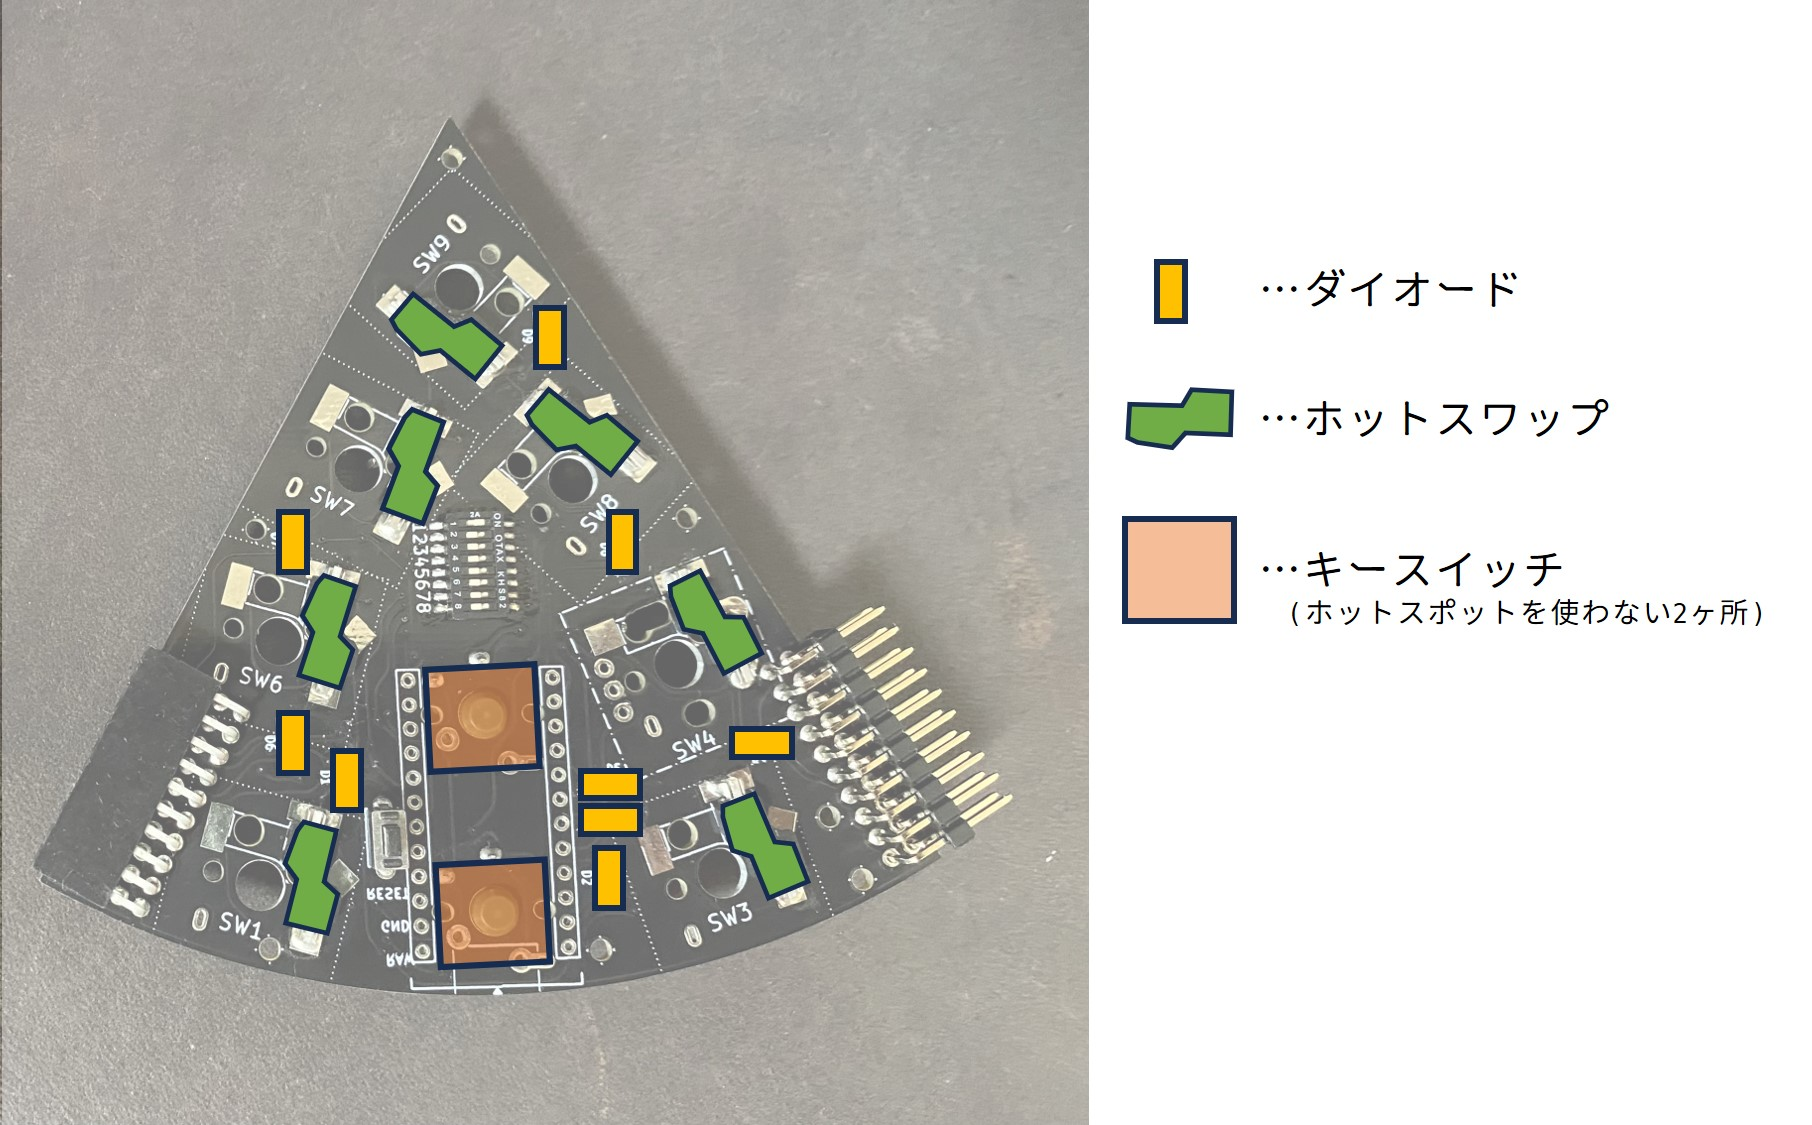
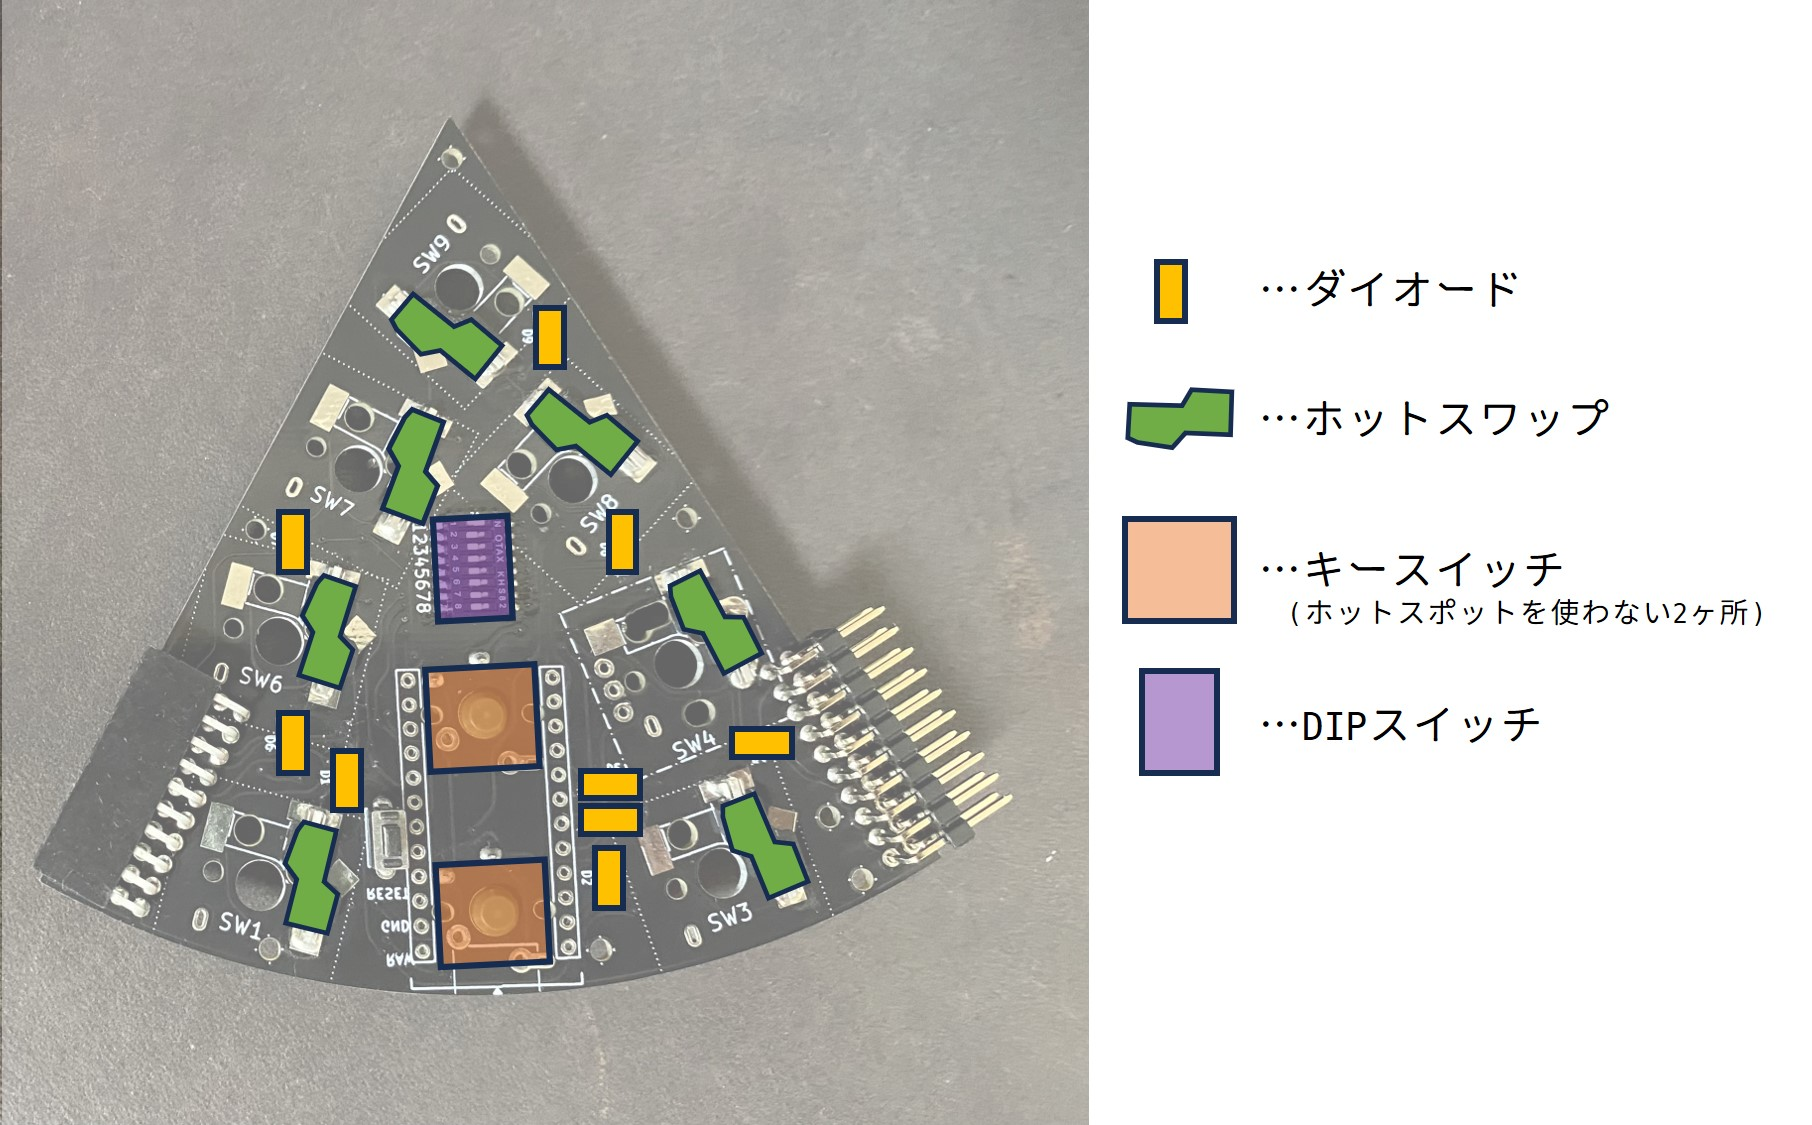
buld guid image

Changed region(s): [[0.2163, 0.4356, 0.3091, 0.56], [0.6181, 0.5911, 0.6799, 0.7156], [0.7108, 0.6222, 0.8653, 0.6533]]

diff --git a/build_guide/build_guide.md b/build_guide/build_guide.md
@@ -3,18 +3,37 @@
 ## キット内容
 ![ ](https://github.com/ataruno/A_PIECE_OF_KEYBOARD/blob/main/build_guide/build_guide_image/01_%E3%82%AD%E3%83%83%E3%83%88%E5%86%85%E5%AE%B9_%E3%82%AD%E3%83%A3%E3%83%97%E3%82%B7%E3%83%A7%E3%83%B3%E3%81%82%E3%82%8A.jpg)
 
-![ ](https://github.com/ataruno/A_PIECE_OF_KEYBOARD/blob/main/build_guide/build_guide_image/02_promicro1.jpg)
-![ ](https://github.com/ataruno/A_PIECE_OF_KEYBOARD/blob/main/build_guide/build_guide_image/02_promicro2.jpg)
+![ ](https://github.com/ataruno/A_PIECE_OF_KEYBOARD/blob/main/build_guide/build_guide_image/02_promicro.jpg)
 
-## はんだ
+## はんだ付け
+### 裏面(部品無し→はんだ付け後)
+
 ![ ](https://github.com/ataruno/A_PIECE_OF_KEYBOARD/blob/main/build_guide/build_guide_image/11_%E5%9F%BA%E6%9D%BF_%E8%A3%8F.jpg)
+
+裏面からのはんだ付けです。
 ![ ](https://github.com/ataruno/A_PIECE_OF_KEYBOARD/blob/main/build_guide/build_guide_image/12_%E3%81%AF%E3%82%93%E3%81%A0%E4%BB%98%E3%81%91%E7%AE%87%E6%89%80_%E8%A3%8F.jpg)
+
+#### ダイオード
+基板の矢印の方向に、ダイオードの横線を合わせてください。
 ![ ](https://github.com/ataruno/A_PIECE_OF_KEYBOARD/blob/main/build_guide/build_guide_image/13_%E3%83%80%E3%82%A4%E3%82%AA%E3%83%BC%E3%83%89%E6%96%B9%E5%90%91_%E3%82%AD%E3%83%A3%E3%83%97%E3%82%B7%E3%83%A7%E3%83%B3.jpg)
-![ ](https://github.com/ataruno/A_PIECE_OF_KEYBOARD/blob/main/build_guide/build_guide_image/14_%E5%9F%BA%E6%9D%BF_%E8%A1%A8.jpg)
-![ ](https://github.com/ataruno/A_PIECE_OF_KEYBOARD/blob/main/build_guide/build_guide_image/15_%E3%81%AF%E3%82%93%E3%81%A0%E4%BB%98%E3%81%91%E7%AE%87%E6%89%80_%E8%A1%A8.jpg)
+
+#### DIPスイッチ
 ![ ](https://github.com/ataruno/A_PIECE_OF_KEYBOARD/blob/main/build_guide/build_guide_image/16_DIP%E3%82%B9%E3%82%A4%E3%83%83%E3%83%81.jpg)
-![ ](https://github.com/ataruno/A_PIECE_OF_KEYBOARD/blob/main/build_guide/build_guide_image/17_%E3%81%AF%E3%82%93%E3%81%A0%E4%BB%98%E3%81%91%E5%BE%8C1.jpg)
+
+#### キースイッチ
+promicroと表裏で重なる部分はホットスワップでなくはんだ付けです。
 ![ ](https://github.com/ataruno/A_PIECE_OF_KEYBOARD/blob/main/build_guide/build_guide_image/18_%E3%81%AF%E3%82%93%E3%81%A0%E4%BB%98%E3%81%91%E5%BE%8C2.jpg)
+
+### 表面(部品無し→はんだ付け後)
+![ ](https://github.com/ataruno/A_PIECE_OF_KEYBOARD/blob/main/build_guide/build_guide_image/14_%E5%9F%BA%E6%9D%BF_%E8%A1%A8.jpg)
+
+表面のはんだ付けです。
+![ ](https://github.com/ataruno/A_PIECE_OF_KEYBOARD/blob/main/build_guide/build_guide_image/15_%E3%81%AF%E3%82%93%E3%81%A0%E4%BB%98%E3%81%91%E7%AE%87%E6%89%80_%E8%A1%A8.jpg)
+
+
+![ ](https://github.com/ataruno/A_PIECE_OF_KEYBOARD/blob/main/build_guide/build_guide_image/17_%E3%81%AF%E3%82%93%E3%81%A0%E4%BB%98%E3%81%91%E5%BE%8C1.jpg)
+
+## 組み立て
 ![ ](https://github.com/ataruno/A_PIECE_OF_KEYBOARD/blob/main/build_guide/build_guide_image/21_%E3%83%9C%E3%83%88%E3%83%A0%E3%83%97%E3%83%AC%E3%83%BC%E3%83%88.jpg)
 ![ ](https://github.com/ataruno/A_PIECE_OF_KEYBOARD/blob/main/build_guide/build_guide_image/22_%E6%A8%AA%E3%81%8B%E3%82%89%E8%A6%8B%E3%81%9F%E5%9B%B3.jpg)
 ![ ](https://github.com/ataruno/A_PIECE_OF_KEYBOARD/blob/main/build_guide/build_guide_image/23_%E8%A3%9C%E5%8A%A91.jpg)
